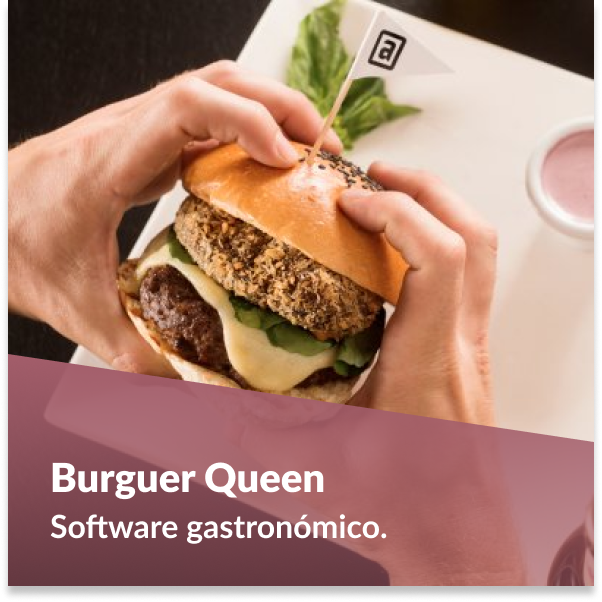
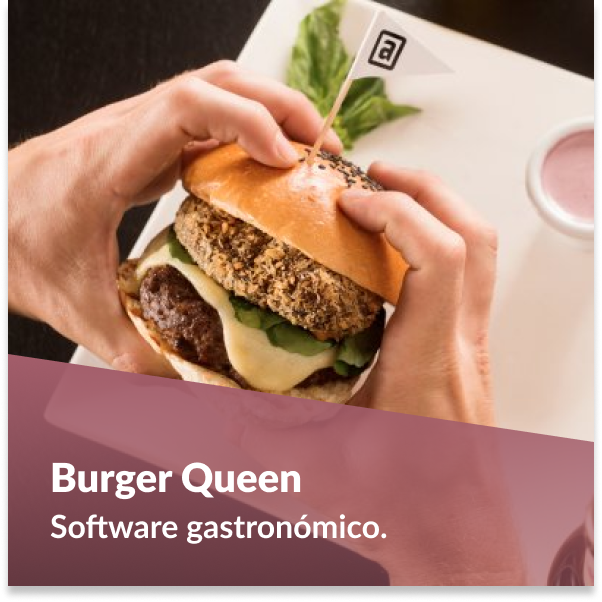
css updates

Changed region(s): [[0.2093, 0.7475, 0.5382, 0.8372]]

diff --git a/src/components/header/header.css b/src/components/header/header.css
@@ -9,11 +9,9 @@ body{
 header{
     width: 100%;
     box-sizing: border-box;
-    background-image: url('../../img/back-mobile.png');
     height: 300px;
-    background-position: top;
-    background-repeat: no-repeat;
-    background-size: cover;
+    background-color: #F2F2F2;
+    clip-path: polygon(0% 0%, 100% 0%, 100% 85%, 0% 100%);
     padding: 2%;
 }
 
@@ -102,12 +100,17 @@ nav{
     margin-top: 10%;
 }
 
+.info-container>picture>img{
+    height:150px;
+}
+
 .info>h2{
-    font-family: 'Work Sans', sans-serif;
+    font-family: 'Happy Monkey', cursive;
     font-style: normal;
     font-weight: 600;
     font-size: 1.125rem;
     line-height: 1.375rem;
+    letter-spacing: .06rem;
     color: #994D5B;
     margin-bottom: 2%;
     margin-top: 16%;
@@ -138,6 +141,7 @@ nav{
     font-size: 1.125rem;
     text-align: center;
     color: #333333;
+    background-color: #F2F2F2;
     width:60%;
     height: 40px;
 }
@@ -152,20 +156,19 @@ nav{
     }
 
     header{
-        background-image: url('../../img/back-desktop.png');
         height: 350px;
     }
 }
 
 @media (min-width:600px){
     header{
-        background-image: url('../../img/back-desktop.png');
-        height: 700px;
-        background-size: 100%;
-        background-position: top;
-        background-size: cover;
+        height: 650px;
     }
 
+    .info-container>picture>img{
+        height:500px;
+    }
+    
     .top-bar>svg{
         margin-left: 2%;
     }
@@ -214,11 +217,7 @@ nav{
 
 @media (min-width:800px){
     header{
-        background-image: url('../../img/back-desktop.png');
-        height: 950px;
-        background-size: 100%;
-        background-position: top;
-        background-size: cover;
+        height: 750px;
     }
 
     .top-bar>h1{

diff --git a/src/components/about/about.css b/src/components/about/about.css
@@ -1,14 +1,16 @@
 .about-container{
-    background-color: #F2EAD3;
+    background-color: #f8f9fa;
     width: 100%;
-    padding: 5%;
+    padding: 15%;
     box-sizing: border-box;
+    clip-path: polygon(0% 0%, 100% 8%, 100% 100%, 0% 92%);
 }
 
 .about-container>h3{
-    font-family: 'Work Sans', sans-serif;
+    font-family: 'Happy Monkey', cursive;
     font-style: normal;
-    font-weight: 500;
+    font-weight: bold;
+    letter-spacing: .05rem;
     font-size: 1.25rem;
     line-height: 1.375rem;
     text-align: center;
@@ -118,6 +120,10 @@
         box-sizing: border-box;
     }
 
+    .about-container{
+        padding: 5%;
+    }
+    
     .about-container>h3{
         font-size: 1.5rem;
     }
@@ -134,7 +140,7 @@
     .photo-contact>img{
         width: 95%;
     }
-    
+
     .photo-contact>div{
         text-align: center;
     }

diff --git a/src/components/footer/footer.css b/src/components/footer/footer.css
@@ -1,8 +1,6 @@
 footer{
-    background-image: url('../../img/back-footer.png');
-    background-position: bottom;
-    background-repeat: no-repeat;
-    background-size: cover;
+    background-color: #E4D0C2;
+    clip-path: polygon(0% 37%, 100% 0%, 100% 100%, 0% 100%);
     width: 100%;
     height: 120px;
     margin: 0;
@@ -24,16 +22,13 @@ footer>div>p{
     color: #4F4F4F;
 }
 @media (min-width:440px){
-    footer{
-        background-image: url('../../img/back-footer2.png');
-    }
+    
 }
 @media (min-width:600px){
     footer{
-        background-image: url('../../img/back-footer2.png');
-        background-size: cover;
-        height: 200px;
+        height: 150px;
         padding-bottom: 2%;
+        clip-path: polygon(0% 50%, 100% 0%, 100% 100%, 0% 100%);
     }
 
     footer>div{

diff --git a/public/index.html b/public/index.html
@@ -2,12 +2,12 @@
 <html lang="en">
   <head>
     <meta charset="utf-8" />
-    <link rel="icon" href="%PUBLIC_URL%/favicon.ico" />
+    <link rel="icon" href="%PUBLIC_URL%/favicon1.png" />
     <meta name="viewport" content="width=device-width, initial-scale=1" />
     <meta name="theme-color" content="#000000" />
     <meta
       name="description"
-      content="Web site created using create-react-app"
+      content="Portafolio Yndira Natera"
     />
     <link rel="apple-touch-icon" href="%PUBLIC_URL%/logo192.png" />
     <!--

diff --git a/src/components/projects/Projects.jsx b/src/components/projects/Projects.jsx
@@ -43,7 +43,7 @@ const Projects = () => {
         }
 
         if(e.target.alt === 'Burger Queen'){
-            setTitleModal('Proyecto Burguer Queen');
+            setTitleModal('Proyecto Burger Queen');
             setImgModal(coverBQ);
             setProjectInfo('Desarrollo de software gastronómico para restaurante de hamburgesas. Realizado en su totalidad por un equipo Front-end. Desarrollado con');
             setUsedTecnologies('React, Firebase, Javascript y CSS');

diff --git a/src/components/projects/ModalCPT.jsx b/src/components/projects/ModalCPT.jsx
@@ -12,7 +12,7 @@ const ModalCPT = (props) => {
                 <div>
                     <picture>
                         <source srcSet={props.img} />
-                        <img source={props.img} alt="preview comida para todos" />
+                        <img source={props.img} alt="preview" />
                     </picture>
                     <p>{props.info} <span>{props.tecnologies}</span>.</p>
                 </div>

diff --git a/src/components/projects/projects.css b/src/components/projects/projects.css
@@ -2,10 +2,11 @@
     padding: 0 5% 15%;
 }
 
-.projects-section>h3{
-    font-family: 'Work Sans', sans-serif;
+.projects-section>h3{ 
+    font-family: 'Happy Monkey', cursive;
     font-style: normal;
-    font-weight: 500;
+    font-weight: bold;
+    letter-spacing: .05rem;
     font-size: 1.25rem;
     line-height: 1.375rem;
     text-align: center;

diff --git a/src/components/contact/contact.css b/src/components/contact/contact.css
@@ -4,9 +4,10 @@
 }
 
 .contact-container>h3{
-    font-family: 'Work Sans', sans-serif;
+    font-family: 'Happy Monkey', cursive;
     font-style: normal;
-    font-weight: 500;
+    font-weight: bold;
+    letter-spacing: .05rem;
     font-size: 1.25rem;
     text-align: center;
     color: #994D5B;

diff --git a/src/components/header/Header.jsx b/src/components/header/Header.jsx
@@ -9,7 +9,6 @@ import { Link } from 'react-scroll';
 
 
 const Header = (props) => {
-
     const asideMenu = useRef(null);
 
     const openAside = () => {
